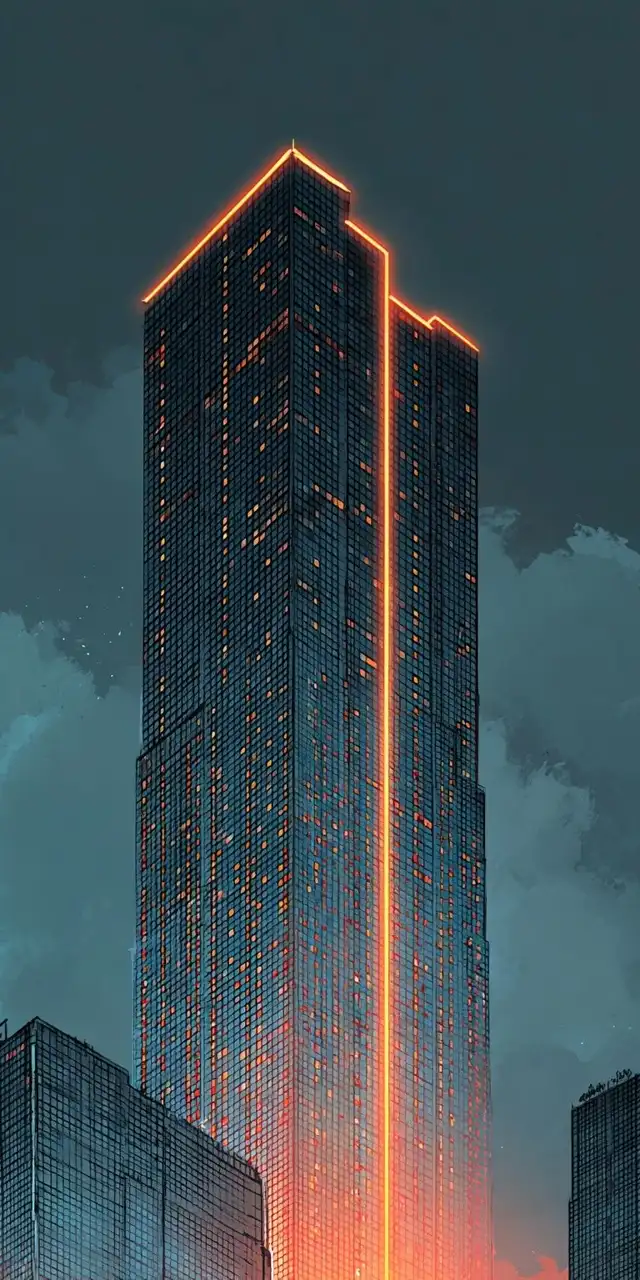
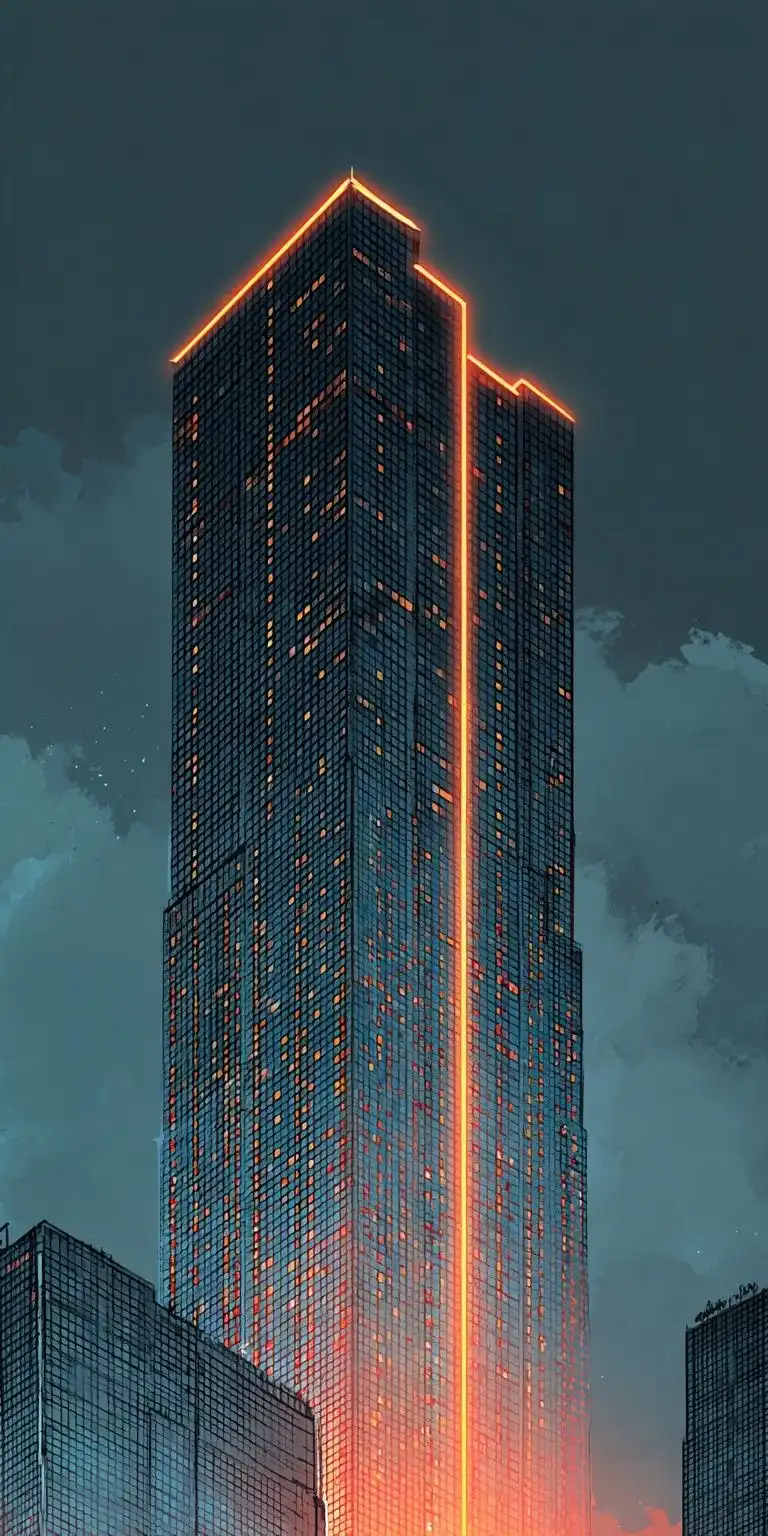
Animated intro photo, hover zoom on pictures, full-screen 3D sensor node viewer on About

Changed region(s): [[0.3125, 0.6875, 0.4375, 0.8438], [0.25, 0.7812, 0.3125, 0.875], [0.375, 0.875, 0.4062, 0.9062]]

diff --git a/frontend/src/components/Node3D.jsx b/frontend/src/components/Node3D.jsx
@@ -1,6 +1,8 @@
 // 3D model of one Smart SHM sensor node (three.js). It starts closed; as the page scrolls
 // through `sectionRef`, the lid lifts off and each part rises out of the enclosure in turn,
 // with its name appearing beside it. Loaded lazily, so three.js only ships with the About page.
+// With `explode` (0 = closed, 1 = apart) it is a viewer instead: drag to turn it, wheel or
+// pinch to zoom, and the slider decides how far apart the parts are.
 import { useEffect, useRef, useState } from 'react'
 import * as THREE from 'three'
 import { RoundedBoxGeometry } from 'three/addons/geometries/RoundedBoxGeometry.js'
@@ -135,12 +137,15 @@ function hasWebGL() {
   }
 }
 
-export default function Node3D({ sectionRef, onReveal, fallback = null }) {
+export default function Node3D({ sectionRef, onReveal, fallback = null, explode = null, viewRef = null }) {
   const wrapRef = useRef(null)
   const labelRefs = useRef({})
   const lineRefs = useRef({})
   const onRevealRef = useRef(onReveal)
   onRevealRef.current = onReveal
+  const explodeRef = useRef(explode)
+  explodeRef.current = explode
+  const viewer = explode !== null
   const [failed, setFailed] = useState(() => typeof window !== 'undefined' && !hasWebGL())
 
   useEffect(() => {
@@ -210,7 +215,39 @@ export default function Node3D({ sectionRef, onReveal, fallback = null }) {
     let raf = 0
     const start = performance.now()
 
+    // viewer: drag to orbit, wheel / pinch to zoom; it turns slowly on its own until touched
+    const startZoom = () => (wrap.clientWidth < wrap.clientHeight ? 1.3 : 1) // tall phone screens: step back a little
+    const orbit = { az: 0, el: 0, zoom: startZoom(), touched: false }
+    const pointers = new Map()
+    let pinch = 0
+    const down = (e) => { pointers.set(e.pointerId, [e.clientX, e.clientY]); orbit.touched = true; wrap.setPointerCapture?.(e.pointerId) }
+    const move = (e) => {
+      const prev = pointers.get(e.pointerId)
+      if (!prev) return
+      pointers.set(e.pointerId, [e.clientX, e.clientY])
+      if (pointers.size === 2) {
+        const [a, b] = [...pointers.values()]
+        const d = Math.hypot(a[0] - b[0], a[1] - b[1])
+        if (pinch) orbit.zoom = Math.max(0.45, Math.min(2.2, orbit.zoom * (pinch / d)))
+        pinch = d
+        return
+      }
+      orbit.az -= (e.clientX - prev[0]) * 0.008
+      orbit.el = Math.max(-0.42, Math.min(0.85, orbit.el + (e.clientY - prev[1]) * 0.006))
+    }
+    const up = (e) => { pointers.delete(e.pointerId); if (pointers.size < 2) pinch = 0 }
+    const wheel = (e) => { e.preventDefault(); orbit.touched = true; orbit.zoom = Math.max(0.45, Math.min(2.2, orbit.zoom * Math.exp(e.deltaY * 0.0012))) }
+    if (viewer) {
+      wrap.addEventListener('pointerdown', down)
+      wrap.addEventListener('pointermove', move)
+      wrap.addEventListener('pointerup', up)
+      wrap.addEventListener('pointercancel', up)
+      wrap.addEventListener('wheel', wheel, { passive: false })
+      if (viewRef) viewRef.current = { reset: () => Object.assign(orbit, { az: 0, el: 0, zoom: startZoom(), touched: false }) }
+    }
+
     const progress = () => {
+      if (explodeRef.current !== null) return explodeRef.current
       if (reduce) return 1
       const el = sectionRef?.current
       if (!el) return 0
@@ -226,6 +263,7 @@ export default function Node3D({ sectionRef, onReveal, fallback = null }) {
       smoothP += (p - smoothP) * 0.12
       const sp = smoothP
       const time = (performance.now() - start) / 1000
+      if (viewer && !orbit.touched && !reduce) orbit.az += 0.0025
 
       // each part lifts out in turn: lid first, base never moves
       let shown = 0
@@ -243,9 +281,9 @@ export default function Node3D({ sectionRef, onReveal, fallback = null }) {
       // camera pulls back and up as the stack grows, and pans so the model sits left of the labels
       const ease = smooth(0, 1, sp)
       const aspectBoost = camera.aspect < 1 ? Math.pow(1 / camera.aspect, 0.85) : 1
-      const dist = lerp(14, 21, ease) * aspectBoost
-      const elev = 0.5
-      const az = 0.75
+      const dist = lerp(14, 21, ease) * aspectBoost * orbit.zoom
+      const elev = 0.5 + orbit.el
+      const az = 0.75 + orbit.az
       const pan = dist * (camera.aspect >= 1 ? 0.12 : 0.07) * ease
       target.set(Math.cos(az) * pan, lerp(0.7, 4.0, ease), -Math.sin(az) * pan)
       camera.position.set(target.x + Math.sin(az) * Math.cos(elev) * dist, target.y + Math.sin(elev) * dist, target.z + Math.cos(az) * Math.cos(elev) * dist)
@@ -301,6 +339,13 @@ export default function Node3D({ sectionRef, onReveal, fallback = null }) {
 
     return () => {
       cancelAnimationFrame(raf)
+      if (viewer) {
+        wrap.removeEventListener('pointerdown', down)
+        wrap.removeEventListener('pointermove', move)
+        wrap.removeEventListener('pointerup', up)
+        wrap.removeEventListener('pointercancel', up)
+        wrap.removeEventListener('wheel', wheel)
+      }
       ro.disconnect()
       io.disconnect()
       scene.traverse((o) => {
@@ -311,12 +356,12 @@ export default function Node3D({ sectionRef, onReveal, fallback = null }) {
       renderer.dispose()
       renderer.domElement.remove()
     }
-  }, [failed, sectionRef])
+  }, [failed, sectionRef, viewer, viewRef])
 
   if (failed) return fallback
   return (
-    <div className="n3d" ref={wrapRef} data-testid="node3d" role="img"
-      aria-label="3D model of a sensor node that comes apart as you scroll: lid, DS18B20, ADXL345, HX711, ESP32, battery and base enclosure">
+    <div className={`n3d ${viewer ? 'n3d-viewer' : ''}`} ref={wrapRef} data-testid={viewer ? 'node3d-viewer' : 'node3d'} role="img"
+      aria-label={`3D model of a sensor node${viewer ? ', drag to turn it' : ' that comes apart as you scroll'}: lid, DS18B20, ADXL345, HX711, ESP32, battery and base enclosure`}>
       <svg className="n3d-lines" aria-hidden="true">
         {PARTS.map((p) => (
           <g key={p.key} ref={(el) => { lineRefs.current[p.key] = el }} style={{ opacity: 0 }}>
@@ -327,7 +372,7 @@ export default function Node3D({ sectionRef, onReveal, fallback = null }) {
       </svg>
       <div className="n3d-labels" aria-hidden="true">
         {PARTS.map((p) => (
-          <div key={p.key} className="n3d-label" ref={(el) => { labelRefs.current[p.key] = el }} data-testid={`node3d-label-${p.key}`} data-visible="false">
+          <div key={p.key} className="n3d-label" ref={(el) => { labelRefs.current[p.key] = el }} data-testid={`${viewer ? 'viewer' : 'node3d'}-label-${p.key}`} data-visible="false">
             <span className="n3d-text"><strong>{p.name}</strong><span>{p.sub}</span></span>
           </div>
         ))}

diff --git a/frontend/src/styles.css b/frontend/src/styles.css
@@ -1084,14 +1084,16 @@ input::placeholder, textarea::placeholder { color: var(--text-3); opacity: 1; }
 .about-banner figcaption { position: relative; z-index: 1; height: 100%; display: flex; flex-direction: column; justify-content: center; gap: 10px; max-width: 460px; padding: 32px; color: var(--text-2); font-size: 14.5px; line-height: 1.55; }
 .about-banner figcaption strong { font-family: var(--font-head); font-size: clamp(22px, 3vw, 32px); line-height: 1.15; letter-spacing: -.03em; color: #fff; }
 .about-split { display: grid; grid-template-columns: minmax(0, 1fr) minmax(0, 2fr); gap: 16px; align-items: stretch; }
-.about-split-img { width: 100%; height: 0; min-height: 100%; object-fit: cover; object-position: center 30%; border-radius: 20px; border: 1px solid var(--line); filter: grayscale(.2); }
+.about-split-media { height: 0; min-height: 100%; border-radius: 20px; border: 1px solid var(--line); overflow: hidden; }
+.about-split-img { width: 100%; height: 100%; object-fit: cover; object-position: center 30%; filter: grayscale(.2); display: block; }
 .about-split .about-cards { grid-template-columns: repeat(2, minmax(0, 1fr)); }
 @media (max-width: 760px) {
   .about-banner { height: 420px; }
   .about-banner::after { background: linear-gradient(0deg, rgba(8,9,11,.95) 0%, rgba(8,9,11,.75) 45%, rgba(8,9,11,.1) 80%); }
   .about-banner figcaption { justify-content: flex-end; padding: 22px; }
   .about-split { grid-template-columns: minmax(0, 1fr); }
-  .about-split-img { height: 220px; min-height: 0; object-position: center 25%; }
+  .about-split-media { height: 220px; min-height: 0; }
+  .about-split-img { object-position: center 25%; }
   .about-split .about-cards { grid-template-columns: minmax(0, 1fr); }
 }
 
@@ -1131,3 +1133,39 @@ input::placeholder, textarea::placeholder { color: var(--text-3); opacity: 1; }
   .scroll-top { right: 16px; bottom: 16px; width: 44px; height: 44px; }
 }
 @media (prefers-reduced-motion: reduce) { .scroll-top { transition: opacity .15s; transform: none; } }
+
+/* About: full-screen 3D model viewer */
+.about-view-3d { gap: 7px; }
+.nv { position: fixed; inset: 0; z-index: 100; display: grid; grid-template-rows: auto minmax(0, 1fr) auto; color: var(--text);
+  background: radial-gradient(900px 600px at 50% 60%, rgba(255,122,26,.12), transparent 70%), #050506; animation: nv-in .3s ease; }
+@keyframes nv-in { from { opacity: 0; transform: scale(.985); } }
+.nv-head { display: flex; align-items: flex-start; justify-content: space-between; gap: 12px; padding: 20px 24px 0; }
+.nv-head h2 { font-family: var(--font-head); font-size: 22px; letter-spacing: -.02em; }
+.nv-head p { color: var(--text-3); font-size: 13px; margin-top: 4px; }
+.nv-close { width: 42px; height: 42px; border-radius: 50%; display: grid; place-items: center; background: rgba(255,255,255,.08); border: 1px solid rgba(255,255,255,.14); color: #fff; cursor: pointer; flex-shrink: 0; }
+.nv-close:hover { background: #ff7a1a; border-color: #ff7a1a; }
+.nv-stage { position: relative; min-height: 0; }
+.nv-stage .n3d { height: 100%; }
+.n3d-viewer { cursor: grab; touch-action: none; }
+.n3d-viewer:active { cursor: grabbing; }
+.nv-controls { display: flex; align-items: center; justify-content: center; gap: 10px; flex-wrap: wrap; padding: 14px 16px calc(18px + env(safe-area-inset-bottom)); }
+.nv-btn { display: inline-flex; align-items: center; gap: 6px; padding: 9px 16px; border-radius: 999px; border: 1px solid rgba(255,255,255,.14); background: rgba(255,255,255,.06); color: #e8eaed; font: 600 13px var(--font-body); cursor: pointer; }
+.nv-btn:hover { border-color: rgba(255,255,255,.3); }
+.nv-btn[aria-pressed="true"] { background: #ff7a1a; border-color: #ff7a1a; color: #fff; }
+.nv-icon { padding: 9px 11px; }
+.nv-slider { width: min(320px, 60vw); display: flex; }
+.nv-slider input { min-height: 0; padding: 0; border: 0; background: transparent; accent-color: #ff7a1a; }
+@media (max-width: 720px) {
+  .nv-head { padding: 16px 16px 0; }
+  .nv-head h2 { font-size: 18px; }
+  .nv-slider { order: -1; width: 100%; }
+}
+
+/* pictures zoom in a little on hover */
+.about-banner img, .about-split-img, .ud-photo, .us-photo { transition: transform .7s cubic-bezier(.22, 1, .36, 1), filter .4s ease; }
+.about-banner:hover img, .about-split-media:hover .about-split-img, .ud-map:hover .ud-photo, .us-photo-wrap:hover .us-photo { transform: scale(1.06); }
+.about-split-media:hover .about-split-img { filter: none; }
+.us-photo-wrap { overflow: hidden; border-radius: 12px; }
+@media (prefers-reduced-motion: reduce) {
+  .about-banner img, .about-split-img, .ud-photo, .us-photo { transition: none; transform: none !important; }
+}

diff --git a/frontend/index.html b/frontend/index.html
@@ -28,16 +28,27 @@
       html.intro-on #intro {
         display: flex; position: fixed; inset: 0; z-index: 9999; align-items: center; justify-content: center; cursor: pointer;
         color: #eef0f3; font-family: Manrope, Inter, system-ui, sans-serif;
-        background:
-          radial-gradient(520px 340px at 50% 46%, rgba(8, 9, 11, .82), rgba(8, 9, 11, .35) 70%, transparent),
-          linear-gradient(180deg, rgba(8, 9, 11, .55), rgba(8, 9, 11, .2) 40%, rgba(8, 9, 11, .85)),
-          url('/images/intro-tower.webp') center 30% / cover no-repeat,
-          #08090b;
+        background: #08090b; overflow: hidden;
         transition: transform .75s cubic-bezier(.76, 0, .24, 1), opacity .75s ease;
       }
       #intro.intro-leave { transform: translateY(-100%); }
       #intro.intro-leave .intro-stage { opacity: 0; transform: translateY(-30px) scale(.98); }
-      .intro-stage { display: flex; flex-direction: column; align-items: center; gap: 26px; padding: 24px; transition: opacity .45s ease, transform .6s ease; }
+      /* the photo: a blurred wash filling the screen, the sharp tower in the middle slowly
+         settling into place, and a warm light that drifts up its glowing edge */
+      .intro-bg, .intro-photo, .intro-shade, .intro-glow { position: absolute; inset: 0; pointer-events: none; }
+      .intro-bg { background: url('/images/intro-tower.webp') center 30% / cover no-repeat; filter: blur(28px) saturate(1.2) brightness(.45); transform: scale(1.15); opacity: 0; animation: intro-fade 1s ease .05s forwards; }
+      .intro-photo { width: 62vh; max-width: 100%; margin: 0 auto; background: url('/images/intro-tower.webp') center 18% / cover no-repeat; opacity: 0; transform: scale(1.12) translateY(3%);
+        -webkit-mask-image: linear-gradient(90deg, transparent, #000 28%, #000 72%, transparent); mask-image: linear-gradient(90deg, transparent, #000 28%, #000 72%, transparent);
+        animation: intro-fade .9s ease .1s forwards, intro-settle 3.4s cubic-bezier(.22, 1, .36, 1) forwards; }
+      .intro-shade { background: radial-gradient(420px 300px at 50% 47%, rgba(8, 9, 11, .8), rgba(8, 9, 11, .3) 70%, transparent), linear-gradient(180deg, rgba(8, 9, 11, .5), transparent 35%, transparent 60%, rgba(8, 9, 11, .9)); }
+      .intro-glow { background: radial-gradient(160px 260px at 50% 50%, rgba(255, 122, 26, .35), transparent 70%); mix-blend-mode: screen; opacity: 0; animation: intro-glow 2.6s ease-in-out .5s infinite; }
+      @keyframes intro-fade { to { opacity: 1; } }
+      @keyframes intro-settle { to { transform: none; } }
+      @keyframes intro-glow { 0% { opacity: 0; transform: translateY(35%); } 40% { opacity: .9; } 100% { opacity: 0; transform: translateY(-40%); } }
+      @media (max-aspect-ratio: 1/1) {
+        .intro-photo { width: auto; background-position: center 30%; -webkit-mask-image: none; mask-image: none; }
+      }
+      .intro-stage { position: relative; z-index: 1; display: flex; flex-direction: column; align-items: center; gap: 26px; padding: 24px; transition: opacity .45s ease, transform .6s ease; }
       .intro-sr { position: absolute; width: 1px; height: 1px; overflow: hidden; clip: rect(0 0 0 0); white-space: nowrap; }
       .intro-building { width: min(240px, 62vw); height: auto; overflow: visible; }
       .intro-building .i-draw, .intro-building .i-ground { fill: none; stroke-linecap: round; stroke-linejoin: round; stroke-dasharray: 700; stroke-dashoffset: 700; animation: intro-draw .9s cubic-bezier(.65, 0, .35, 1) forwards; animation-delay: var(--d, 0s); }
@@ -66,6 +77,8 @@
       html.intro-reduced .intro-building .i-dot { transform: none; }
       html.intro-reduced .intro-brand { opacity: 1; transform: none; }
       html.intro-reduced .intro-bar span { width: 100%; }
+      html.intro-reduced .intro-bg, html.intro-reduced .intro-photo { opacity: 1; transform: none; }
+      html.intro-reduced .intro-glow { display: none; }
       html.intro-reduced #intro.intro-leave { transform: none; opacity: 0; }
     </style>
   </head>
@@ -74,6 +87,7 @@
 
     <div id="intro" data-testid="intro" role="status" aria-live="polite">
       <span class="intro-sr">Loading Smart Structural Health Monitoring System</span>
+      <div class="intro-bg"></div><div class="intro-photo"></div><div class="intro-shade"></div><div class="intro-glow"></div>
       <div class="intro-stage" aria-hidden="true">
         <svg class="intro-building" viewBox="0 0 220 175">
           <line class="i-ground" x1="8" y1="162" x2="212" y2="162" />

diff --git a/frontend/src/pages/About.jsx b/frontend/src/pages/About.jsx
@@ -1,13 +1,14 @@
 import { Suspense, lazy, useRef, useState } from 'react'
 import { Link } from 'react-router-dom'
 import {
-  Activity, ArrowRight, BatteryCharging, Bell, CircleDollarSign, Cloud, Cpu, Gauge, History, IndianRupee,
+  Activity, ArrowRight, BatteryCharging, Box, Bell, CircleDollarSign, Cloud, Cpu, Gauge, History, IndianRupee,
   Layers, LayoutDashboard, Mail, MessageCircle, MonitorSmartphone, Puzzle, Radio, ShieldAlert, Sparkles, Thermometer, Users, Waves, Wifi,
   Wrench,
 } from 'lucide-react'
 import ExplodedNode from '../components/ExplodedNode'
 import { BrandMark } from '../components/Layout'
 import ScrollTop from '../components/ScrollTop'
+import NodeViewer from '../components/NodeViewer'
 import { useAuth } from '../lib/context'
 
 // three.js is only downloaded when the About page is opened.
@@ -119,6 +120,7 @@ export default function About() {
   const home = user ? (user.role === 'admin' ? '/' : '/user') : null
   const scrollyRef = useRef(null)
   const [revealed, setRevealed] = useState([])
+  const [viewing, setViewing] = useState(false)
   const reduceMotion = typeof window !== 'undefined' && window.matchMedia?.('(prefers-reduced-motion: reduce)').matches
 
   return (
@@ -160,6 +162,9 @@ export default function About() {
                 <Link to={home || '/login'} className="btn btn-pill btn-accent about-cta-btn">
                   {home ? `Open ${user.role === 'admin' ? 'dashboard' : 'readings'}` : 'Open the live dashboard'}
                 </Link>
+                <button type="button" className="btn btn-pill about-outline about-view-3d" onClick={() => setViewing(true)} data-testid="about-view-3d">
+                  <Box size={15} aria-hidden="true" /> View the 3D model
+                </button>
                 <a href="#hardware" className="about-text-link">See the hardware ↓</a>
               </div>
               <div className="parts-progress" data-testid="parts-progress">
@@ -209,7 +214,9 @@ export default function About() {
 
         <Section id="solution" eyebrow="Proposed solution" title="What the Smart SHM system does">
           <div className="about-split">
-            <img className="about-split-img" src="/images/about-concrete.webp" alt="Concrete floors cantilevered over a column" loading="lazy" decoding="async" width="736" height="1309" />
+            <div className="about-split-media">
+              <img className="about-split-img" src="/images/about-concrete.webp" alt="Concrete floors cantilevered over a column" loading="lazy" decoding="async" width="736" height="1309" />
+            </div>
             <Cards items={SOLUTION} testid="about-solution-cards" />
           </div>
         </Section>
@@ -312,6 +319,7 @@ export default function About() {
         </section>
       </main>
       <ScrollTop />
+      {viewing ? <NodeViewer onClose={() => setViewing(false)} /> : null}
     </div>
   )
 }

diff --git a/frontend/src/components/NodeViewer.jsx b/frontend/src/components/NodeViewer.jsx
@@ -1,0 +1,47 @@
+// Full-screen look at the 3D sensor node: turn it, zoom in and take it apart with a slider.
+import { Suspense, lazy, useEffect, useRef, useState } from 'react'
+import { Layers, Maximize2, RotateCcw, X } from 'lucide-react'
+import ExplodedNode from './ExplodedNode'
+
+const Node3D = lazy(() => import('./Node3D'))
+
+export default function NodeViewer({ onClose }) {
+  const [apart, setApart] = useState(100) // 0 = assembled, 100 = every part lifted out
+  const closeRef = useRef(null)
+  const viewRef = useRef(null)
+
+  useEffect(() => {
+    closeRef.current?.focus()
+    const key = (e) => { if (e.key === 'Escape') onClose() }
+    document.addEventListener('keydown', key)
+    const overflow = document.body.style.overflow
+    document.body.style.overflow = 'hidden'
+    return () => { document.removeEventListener('keydown', key); document.body.style.overflow = overflow }
+  }, [onClose])
+
+  return (
+    <div className="nv" role="dialog" aria-modal="true" aria-labelledby="nv-title" data-testid="node-viewer">
+      <header className="nv-head">
+        <div>
+          <h2 id="nv-title">Sensor node · 3D model</h2>
+          <p>Drag to turn it · scroll or pinch to zoom</p>
+        </div>
+        <button type="button" ref={closeRef} className="nv-close" onClick={onClose} aria-label="Close the 3D model" data-testid="node-viewer-close"><X size={20} aria-hidden="true" /></button>
+      </header>
+      <div className="nv-stage">
+        <Suspense fallback={<ExplodedNode />}>
+          <Node3D explode={apart / 100} viewRef={viewRef} fallback={<ExplodedNode />} />
+        </Suspense>
+      </div>
+      <footer className="nv-controls">
+        <button type="button" className="nv-btn" onClick={() => setApart(0)} aria-pressed={apart === 0} data-testid="node-viewer-assemble"><Maximize2 size={14} aria-hidden="true" /> Put together</button>
+        <label className="nv-slider">
+          <span className="sr-only">How far apart</span>
+          <input type="range" min="0" max="100" value={apart} onChange={(e) => setApart(Number(e.target.value))} data-testid="node-viewer-slider" />
+        </label>
+        <button type="button" className="nv-btn" onClick={() => setApart(100)} aria-pressed={apart === 100} data-testid="node-viewer-explode"><Layers size={14} aria-hidden="true" /> Take apart</button>
+        <button type="button" className="nv-btn nv-icon" onClick={() => viewRef.current?.reset()} aria-label="Reset the view" data-testid="node-viewer-reset"><RotateCcw size={14} aria-hidden="true" /></button>
+      </footer>
+    </div>
+  )
+}

diff --git a/frontend/e2e/mobile.spec.js b/frontend/e2e/mobile.spec.js
@@ -87,3 +87,17 @@ test('the back-to-top button is only on the About page', async ({ page }) => {
   await expect(page.getByTestId('login-page')).toBeVisible()
   await expect(page.getByTestId('scroll-top')).toHaveCount(0)
 })
+
+test('the About page opens the 3D sensor node full screen and takes it apart', async ({ page }) => {
+  await page.goto('/about')
+  await page.getByTestId('about-view-3d').click()
+  const viewer = page.getByTestId('node-viewer')
+  await expect(viewer).toBeVisible()
+  await expect(viewer.getByTestId('node3d-viewer').or(viewer.locator('svg.exploded'))).toBeVisible()
+  await viewer.getByTestId('node-viewer-assemble').click()
+  await expect(viewer.getByTestId('node-viewer-slider')).toHaveValue('0')
+  await viewer.getByTestId('node-viewer-explode').click()
+  await expect(viewer.getByTestId('node-viewer-slider')).toHaveValue('100')
+  await page.keyboard.press('Escape')
+  await expect(viewer).toHaveCount(0)
+})

diff --git a/frontend/src/pages/UserStructure.jsx b/frontend/src/pages/UserStructure.jsx
@@ -41,7 +41,7 @@ export default function UserStructure() {
       {t.building_photo ? (
         <section className="panel" aria-labelledby="us-photo">
           <div className="panel-head"><h2 id="us-photo">Photo of the building</h2></div>
-          <div className="panel-body"><img className="us-photo" src={buildingPhotoUrl(t.building_photo, userId)} alt={`Photo of ${u.name}’s building`} data-testid="user-structure-photo" /></div>
+          <div className="panel-body"><div className="us-photo-wrap"><img className="us-photo" src={buildingPhotoUrl(t.building_photo, userId)} alt={`Photo of ${u.name}’s building`} data-testid="user-structure-photo" /></div></div>
         </section>
       ) : null}
 

diff --git a/frontend/e2e/intro.spec.js b/frontend/e2e/intro.spec.js
@@ -21,7 +21,7 @@ test('clicking skips the intro', async ({ page }) => {
   const intro = page.getByTestId('intro')
   await expect(intro).toBeVisible()
   await intro.click()
-  await expect(intro).toHaveCount(0, { timeout: 1500 })
+  await expect(intro).toHaveCount(0, { timeout: 3000 }) // the lift-away itself takes 0.78 s
   await expect(page.getByTestId('about-page')).toBeVisible()
 })
 

diff --git a/README.md b/README.md
@@ -204,7 +204,7 @@ Every request must carry the secret, so the URL alone is not enough to write to 
 cd backend && python -m pytest        # 156 API tests, in-memory MongoDB
 ```
 
-End-to-end (Playwright, 60 tests in `frontend/e2e`):
+End-to-end (Playwright, 61 tests in `frontend/e2e`):
 
 ```bash
 cd frontend
